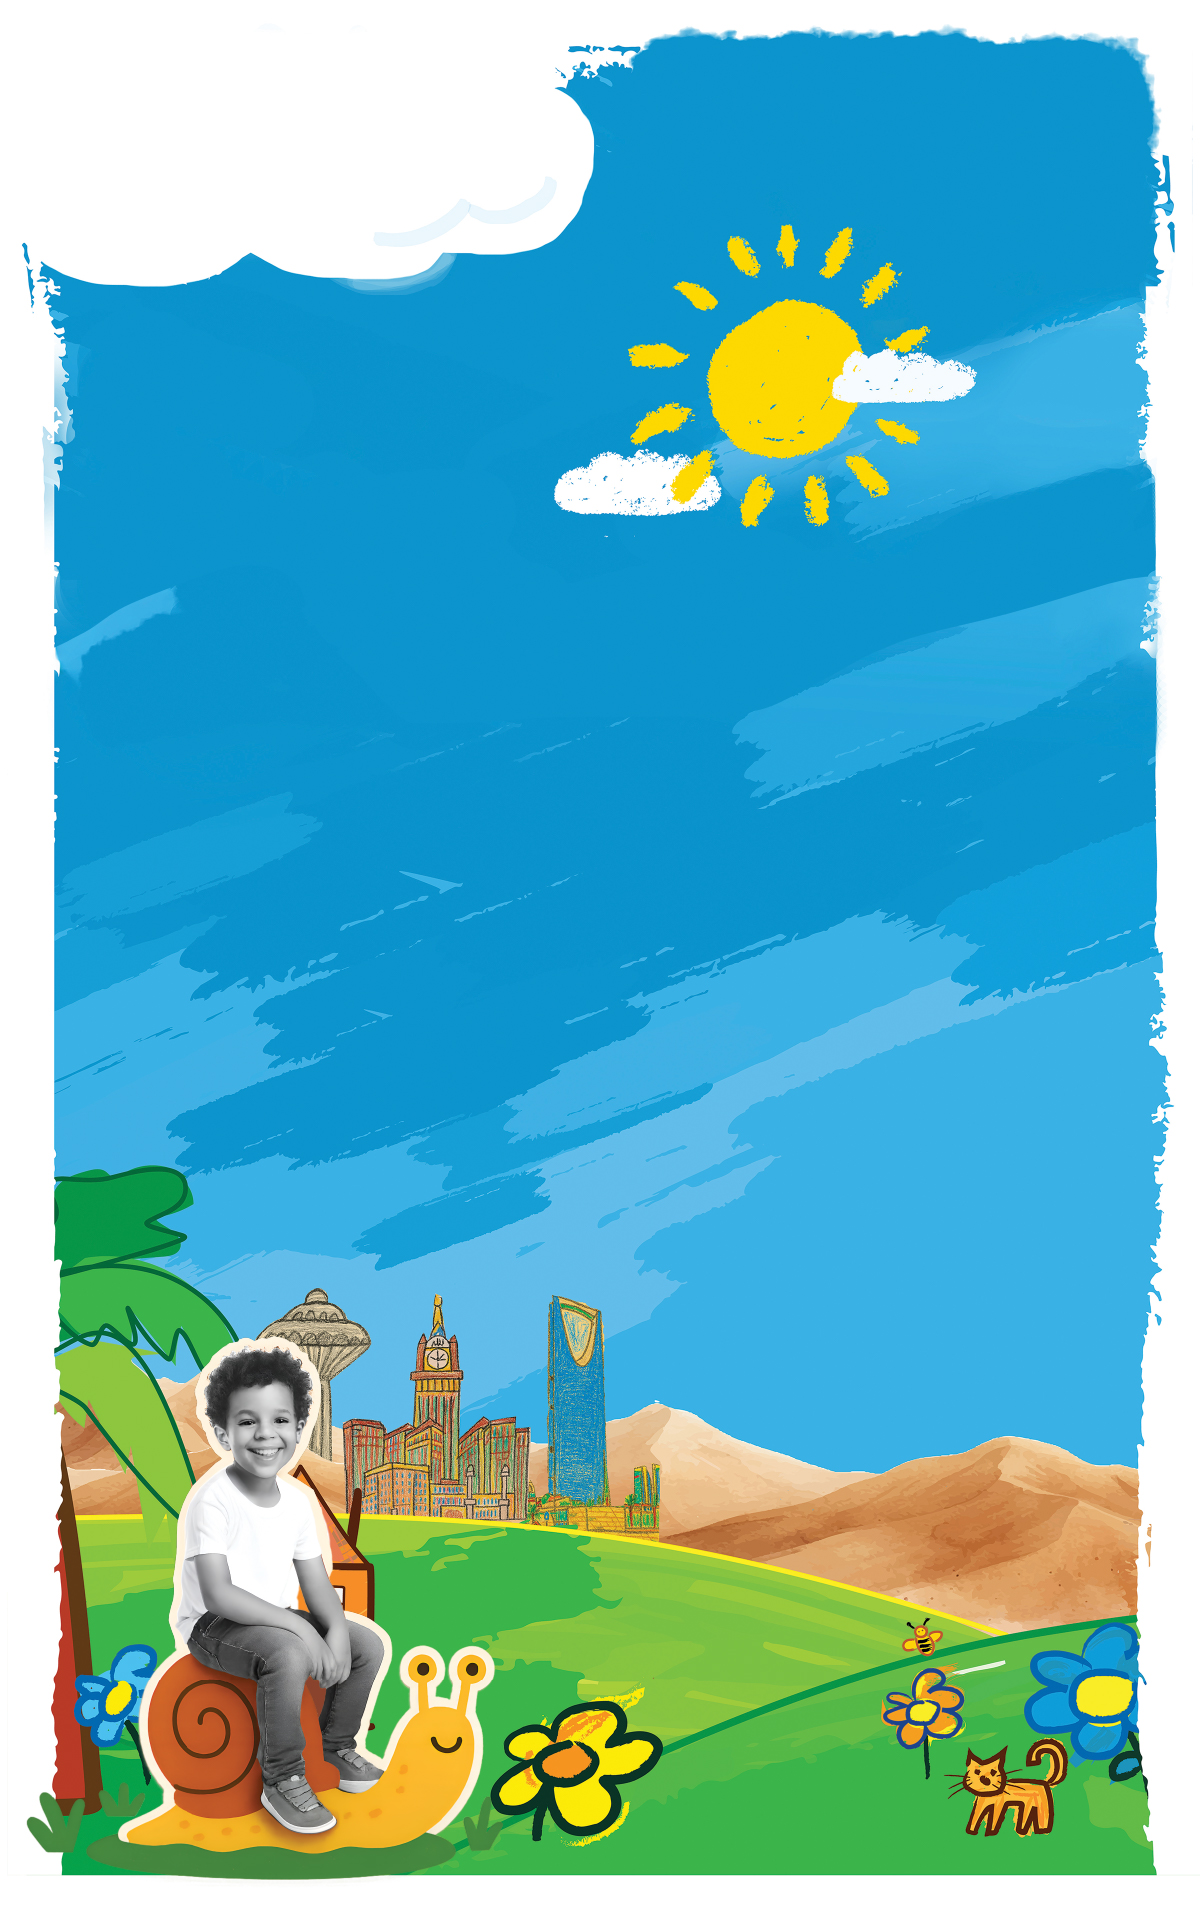
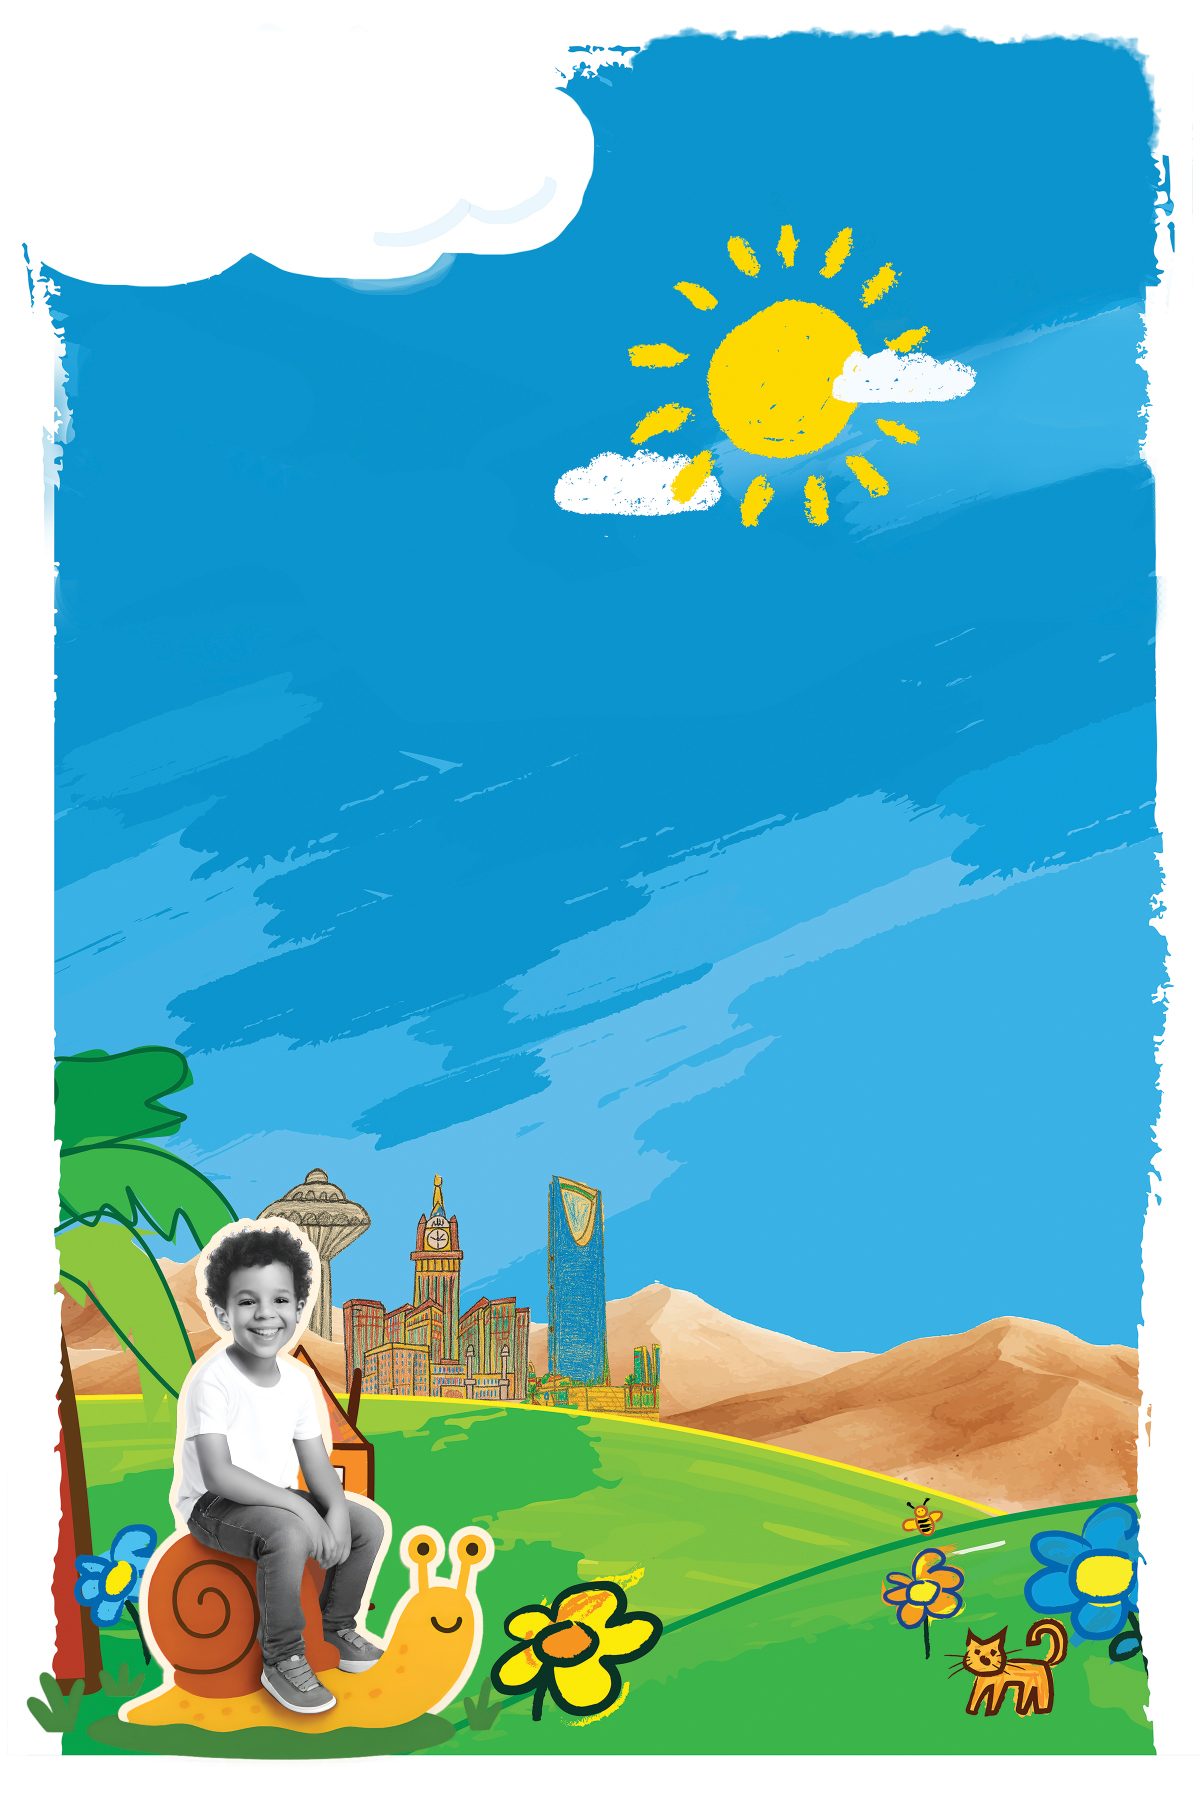
fixed: Pafinur images position and background size

diff --git a/resources/css/app.css b/resources/css/app.css
@@ -29,7 +29,7 @@ body {
 .pafinur-body {
     background-image: url("/storage/images/pafinur/1/pafinur_bg.jpg");
     background-size: cover;
-    background-position: center;
+    background-position: top center;
 }
 .pafinur-body.background-2 {
     background-image: url("/storage/images/pafinur/2/background.jpg");

diff --git a/resources/views/pafinur.blade.php b/resources/views/pafinur.blade.php
@@ -30,7 +30,7 @@
                     class="w-[16vw]">
 
             </div>
-            <div class="z-10 flex items-start justify-center w-full gap-4 mt-[24rem] px-12 pb-20">
+            <div class="z-10 flex items-start justify-center w-full gap-4 mt-[20vh] px-12 pb-20">
                 <img src="{{ @asset('storage/images/pafinur/2/pafinur-tag.png') }}" alt="" srcset=""
                     class="w-[58vw]">
             </div>
